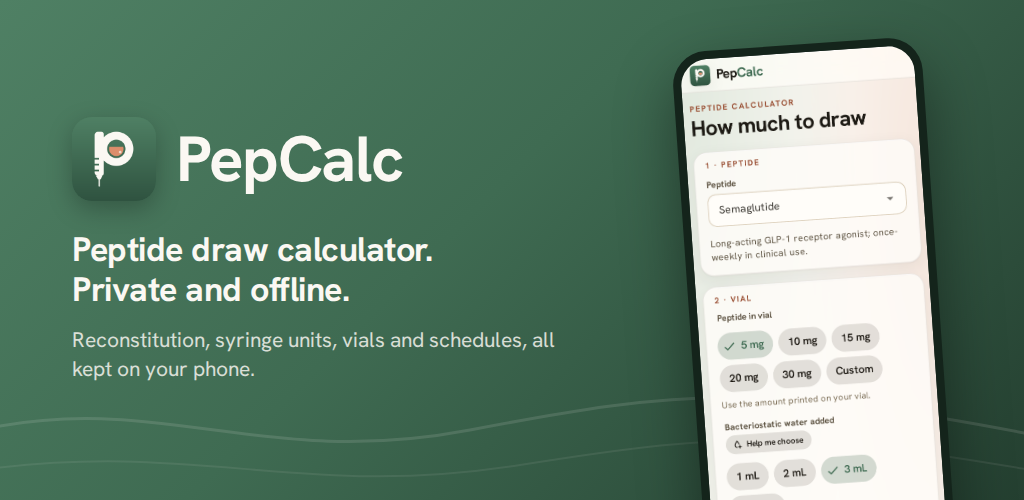
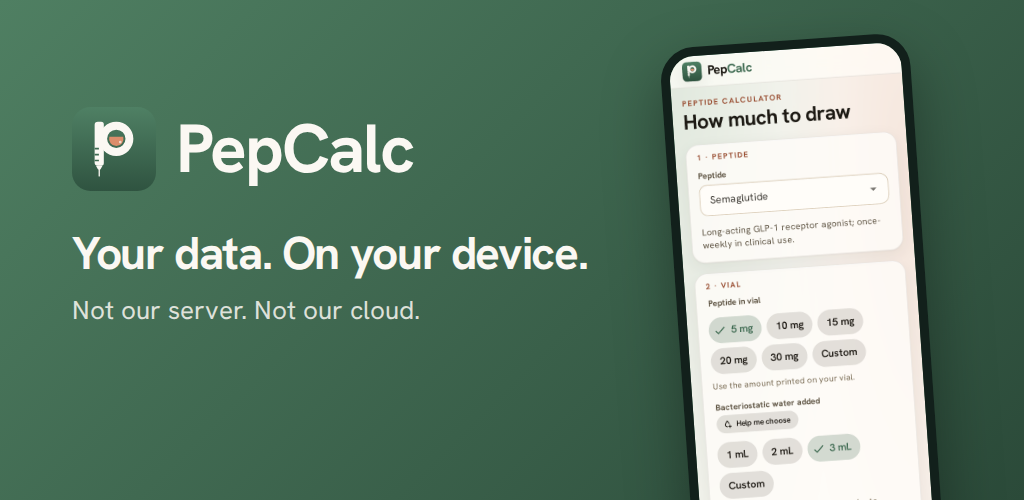
update share functionality verbiage

Changed region(s): [[0.625, 0.06, 0.9375, 1.0], [0.0625, 0.45, 0.5938, 0.75], [0.0625, 0.24, 0.4062, 0.42]]

diff --git a/CLAUDE.md b/CLAUDE.md
@@ -21,6 +21,7 @@ All commands run on the Node version in `.nvmrc` (`nvm use`); never system Node.
 | `make android`           | Build the Capacitor bundle (`dist-android/`) and sync it into `android/`                         |
 | `make ios`               | Build the iOS bundle (`dist-ios/`) and sync it into `ios/`; the app builds in CI, not locally    |
 | `make store-screenshots` | Retake the F-Droid and Play phone, tablet and Chromebook screenshots in `fastlane/metadata`      |
+| `make brand-images`      | Redraw the site link preview and store feature graphic from `scripts/brand-images.mjs`           |
 
 ## Skills and rules
 
@@ -42,4 +43,6 @@ F-Droid recipe are in `docs/releasing.md`.
 - Arithmetic lives in `src/domain/` (pure, unit tested). IU never converts to mass.
 - Every number shown to users carries a source; PK curves only from human data or
   clearly labelled user-supplied values.
+- All user-facing text is short and direct: no AI slop, no trailing ", so X" clauses, no filler.
+  Legal and safety wording is the exception.
 - PepCalc does arithmetic and shows sourced references; it never recommends a dose.

diff --git a/docs/releasing.md b/docs/releasing.md
@@ -98,8 +98,8 @@ dark), and look at each one before committing.
 
 The store icon (`images/icon.png`, 512 x 512) is the logo tile with square corners, since Play
 rounds it itself; `npm run icons:android` writes it with the launcher icons. The feature graphic
-(`images/featureGraphic.png`, 1024 x 500) was made by hand from the icon and the calculator
-screenshot, with no brand names on it.
+(`images/featureGraphic.png`, 1024 x 500) comes from `make brand-images`. It carries no brand
+names and no price wording such as "free".
 
 ## iOS
 
